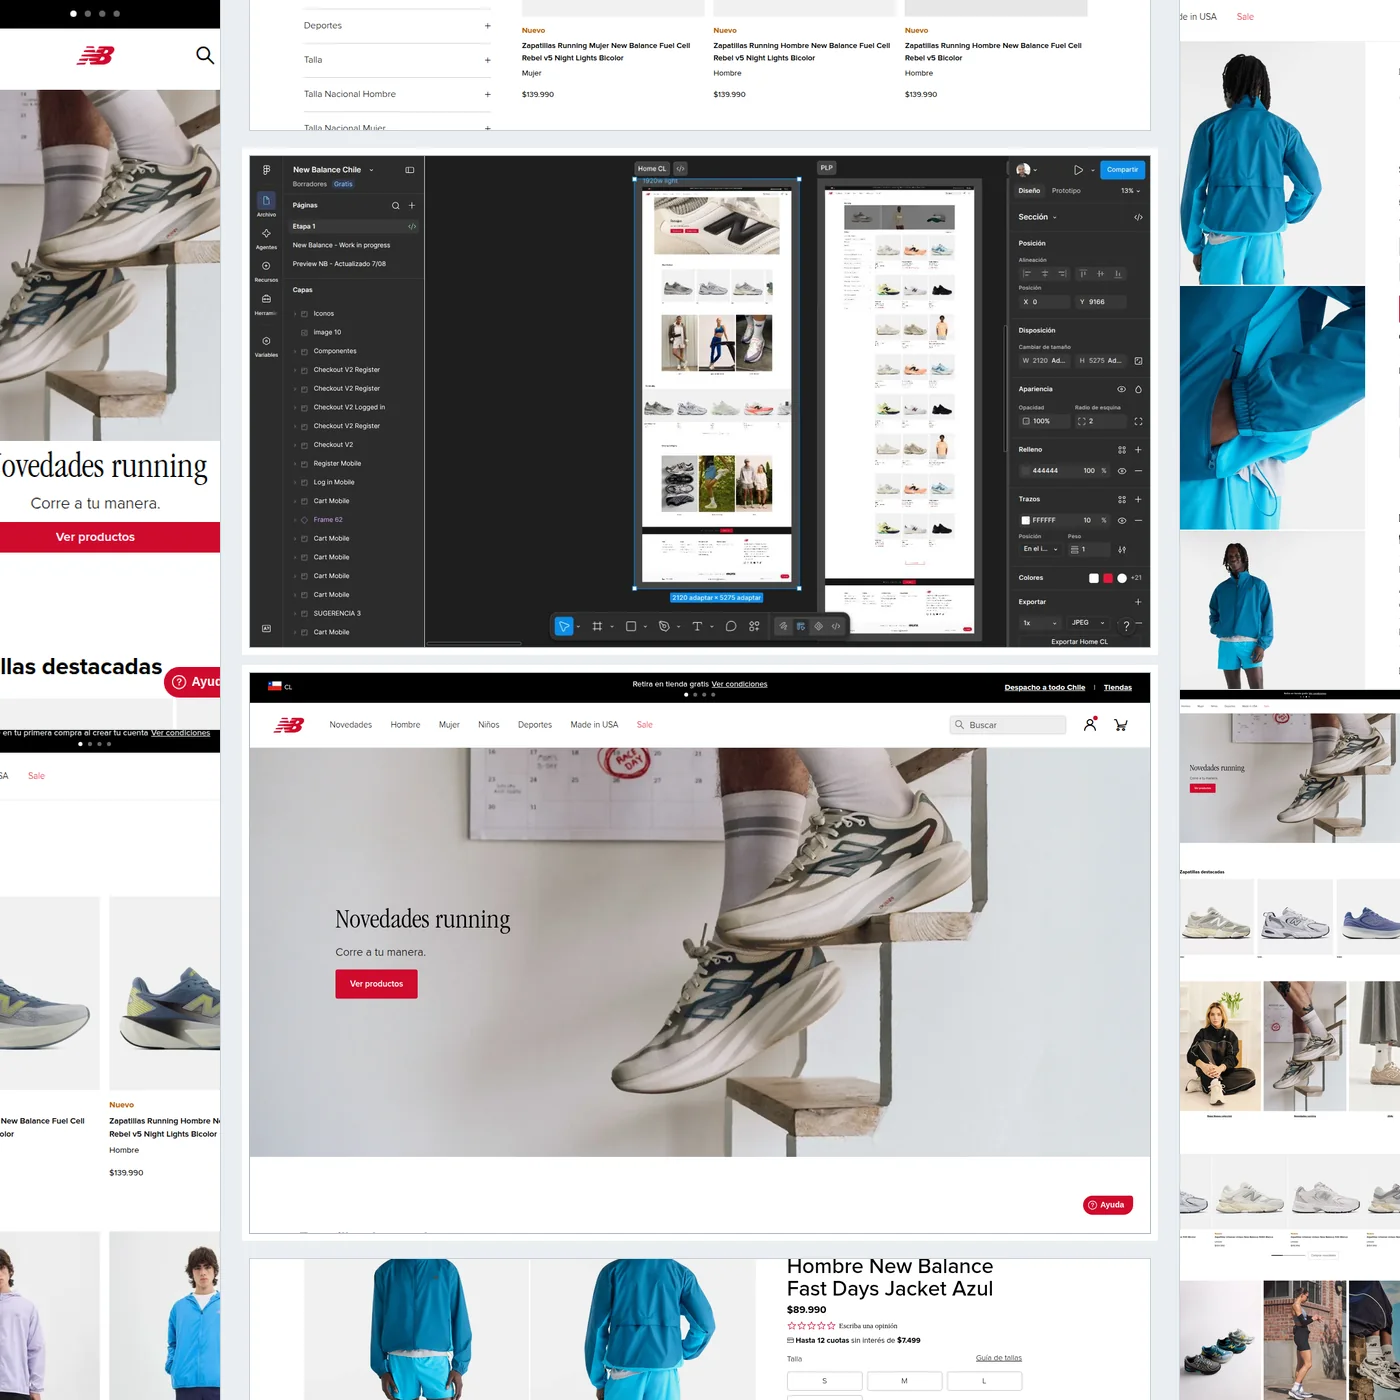
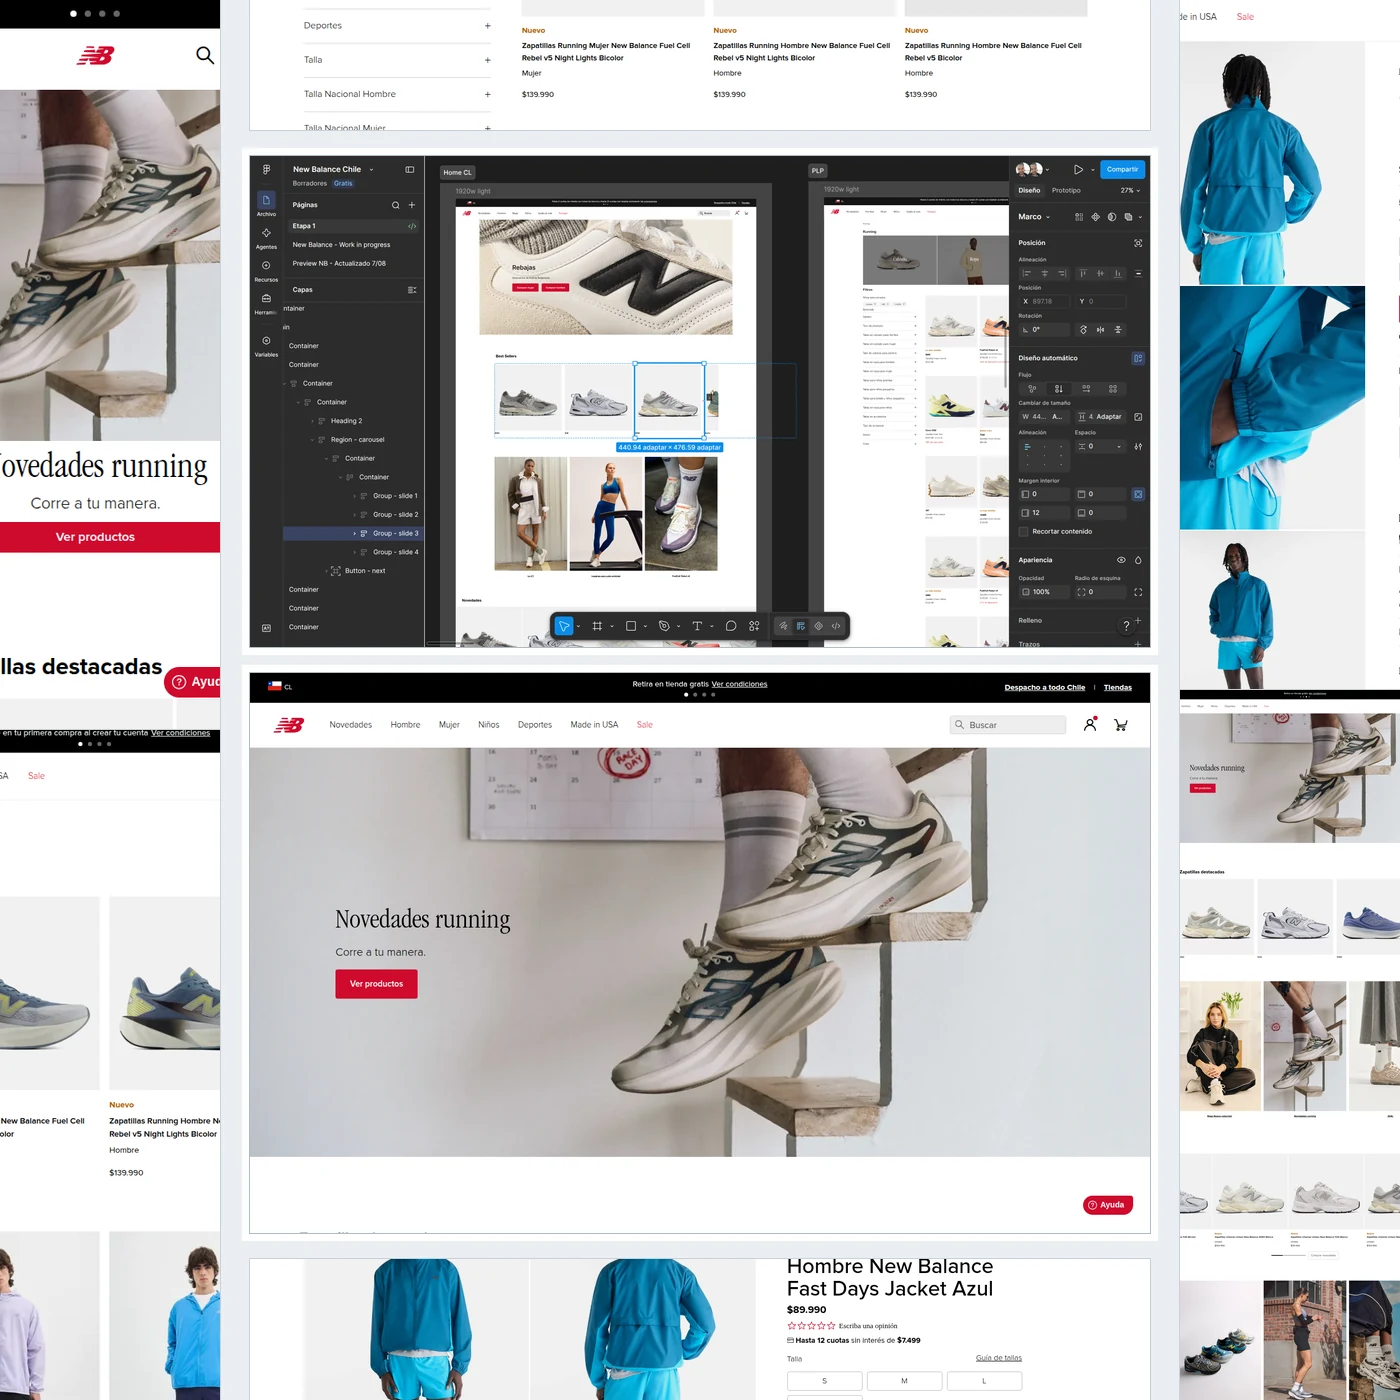
Caso 01: captura de Figma en alta y sizes corregido
La captura pasa a 1920x1048: la ventana de automatización topaba en 1487
de ancho y de ahí venía parte del borroneo. El encuadre queda al 27%, con
el hero y los destacados legibles, el árbol de capas del carrusel a la
vista y el panel de diseño automático con el espaciado.

Además el sizes decía 640px, así que en el modal —donde la imagen se
muestra al doble— el navegador bajaba la variante chica y la estiraba.
Ahora pide la grande.

Changed region(s): [[0.1843, 0.0921, 0.8293, 0.4607], [0.7986, 0.3379, 0.8293, 0.3686], [0.7986, 0.2457, 0.8293, 0.2764]]

diff --git a/diseno/index.html b/diseno/index.html
@@ -139,13 +139,13 @@
         <div class="case__media">
           <figure>
             <img src="../img/nb-mosaico.webp"
-                 srcset="../img/nb-mosaico-700.webp 700w, ../img/nb-mosaico.webp 1400w" sizes="(max-width: 900px) 92vw, 640px" width="1400" height="1400" loading="lazy"
+                 srcset="../img/nb-mosaico-700.webp 700w, ../img/nb-mosaico.webp 1400w" sizes="(max-width: 900px) 92vw, 1200px" width="1400" height="1400" loading="lazy"
                  alt="Mosaico del proyecto New Balance Chile. En el centro, el archivo de Figma con el diseño del home junto al del listado de productos, y debajo el home publicado en newbalance.cl. Alrededor, el listado de productos, la ficha de producto y la versión mobile del sitio.">
             <figcaption>El diseño en Figma y el sitio en producción, con el listado, la ficha de producto y la versión mobile alrededor.</figcaption>
           </figure>
           <figure>
             <img src="../img/nb-figma.webp"
-                 srcset="../img/nb-figma-800.webp 800w, ../img/nb-figma.webp 1487w" sizes="(max-width: 900px) 92vw, 640px" width="1487" height="812" loading="lazy"
+                 srcset="../img/nb-figma-960.webp 960w, ../img/nb-figma.webp 1920w" sizes="(max-width: 900px) 92vw, 1200px" width="1920" height="1048" loading="lazy"
                  alt="El archivo de New Balance Chile abierto en Figma, con el diseño ampliado: el árbol de capas muestra la estructura del home con sus contenedores nombrados, y el panel derecho las propiedades de diseño automático con el espaciado. En el lienzo, el bloque editorial de tres imágenes y la fila de productos.">
             <figcaption>El archivo en Figma: capas nombradas, contenedores anidados y diseño automático. Diseñé la interfaz completa y después desarrollé el theme.</figcaption>
           </figure>

diff --git a/index.html b/index.html
@@ -138,13 +138,13 @@
         <div class="case__media">
           <figure>
             <img src="img/nb-mosaico.webp"
-                 srcset="img/nb-mosaico-700.webp 700w, img/nb-mosaico.webp 1400w" sizes="(max-width: 900px) 92vw, 640px" width="1400" height="1400" loading="lazy"
+                 srcset="img/nb-mosaico-700.webp 700w, img/nb-mosaico.webp 1400w" sizes="(max-width: 900px) 92vw, 1200px" width="1400" height="1400" loading="lazy"
                  alt="Mosaico del proyecto New Balance Chile. En el centro, el archivo de Figma con el diseño del home junto al del listado de productos, y debajo el home publicado en newbalance.cl. Alrededor, el listado de productos, la ficha de producto y la versión mobile del sitio.">
             <figcaption>El diseño en Figma y el sitio en producción, con el listado, la ficha de producto y la versión mobile alrededor.</figcaption>
           </figure>
           <figure>
             <img src="img/nb-figma.webp"
-                 srcset="img/nb-figma-800.webp 800w, img/nb-figma.webp 1487w" sizes="(max-width: 900px) 92vw, 640px" width="1487" height="812" loading="lazy"
+                 srcset="img/nb-figma-960.webp 960w, img/nb-figma.webp 1920w" sizes="(max-width: 900px) 92vw, 1200px" width="1920" height="1048" loading="lazy"
                  alt="El archivo de New Balance Chile abierto en Figma, con el diseño ampliado: el árbol de capas muestra la estructura del home con sus contenedores nombrados, y el panel derecho las propiedades de diseño automático con el espaciado. En el lienzo, el bloque editorial de tres imágenes y la fila de productos.">
             <figcaption>El archivo en Figma: capas nombradas, contenedores anidados y diseño automático. Diseñé la interfaz completa y después desarrollé el theme.</figcaption>
           </figure>

diff --git a/en/diseno/index.html b/en/diseno/index.html
@@ -139,13 +139,13 @@
         <div class="case__media">
           <figure>
             <img src="../../img/nb-mosaico.webp"
-                 srcset="../../img/nb-mosaico-700.webp 700w, ../../img/nb-mosaico.webp 1400w" sizes="(max-width: 900px) 92vw, 640px" width="1400" height="1400" loading="lazy"
+                 srcset="../../img/nb-mosaico-700.webp 700w, ../../img/nb-mosaico.webp 1400w" sizes="(max-width: 900px) 92vw, 1200px" width="1400" height="1400" loading="lazy"
                  alt="Mosaic of the New Balance Chile project. At the centre, the Figma file with the home design next to the product listing, and below it the home page published at newbalance.cl. Around them, the product listing, the product page and the site's mobile version.">
             <figcaption>The Figma design and the live site, with the listing, the product page and the mobile version around them.</figcaption>
           </figure>
           <figure>
             <img src="../../img/nb-figma.webp"
-                 srcset="../../img/nb-figma-800.webp 800w, ../../img/nb-figma.webp 1487w" sizes="(max-width: 900px) 92vw, 640px" width="1487" height="812" loading="lazy"
+                 srcset="../../img/nb-figma-960.webp 960w, ../../img/nb-figma.webp 1920w" sizes="(max-width: 900px) 92vw, 1200px" width="1920" height="1048" loading="lazy"
                  alt="The New Balance Chile file open in Figma, zoomed into the design: the layer tree shows the home's structure with its named containers, and the right-hand panel the auto layout properties and spacing. On the canvas, the three-image editorial block and the product row.">
             <figcaption>The Figma file: named layers, nested containers and auto layout. I designed the full interface and then built the theme.</figcaption>
           </figure>

diff --git a/en/index.html b/en/index.html
@@ -138,13 +138,13 @@
         <div class="case__media">
           <figure>
             <img src="../img/nb-mosaico.webp"
-                 srcset="../img/nb-mosaico-700.webp 700w, ../img/nb-mosaico.webp 1400w" sizes="(max-width: 900px) 92vw, 640px" width="1400" height="1400" loading="lazy"
+                 srcset="../img/nb-mosaico-700.webp 700w, ../img/nb-mosaico.webp 1400w" sizes="(max-width: 900px) 92vw, 1200px" width="1400" height="1400" loading="lazy"
                  alt="Mosaic of the New Balance Chile project. At the centre, the Figma file with the home design next to the product listing, and below it the home page published at newbalance.cl. Around them, the product listing, the product page and the site's mobile version.">
             <figcaption>The Figma design and the live site, with the listing, the product page and the mobile version around them.</figcaption>
           </figure>
           <figure>
             <img src="../img/nb-figma.webp"
-                 srcset="../img/nb-figma-800.webp 800w, ../img/nb-figma.webp 1487w" sizes="(max-width: 900px) 92vw, 640px" width="1487" height="812" loading="lazy"
+                 srcset="../img/nb-figma-960.webp 960w, ../img/nb-figma.webp 1920w" sizes="(max-width: 900px) 92vw, 1200px" width="1920" height="1048" loading="lazy"
                  alt="The New Balance Chile file open in Figma, zoomed into the design: the layer tree shows the home's structure with its named containers, and the right-hand panel the auto layout properties and spacing. On the canvas, the three-image editorial block and the product row.">
             <figcaption>The Figma file: named layers, nested containers and auto layout. I designed the full interface and then built the theme.</figcaption>
           </figure>
